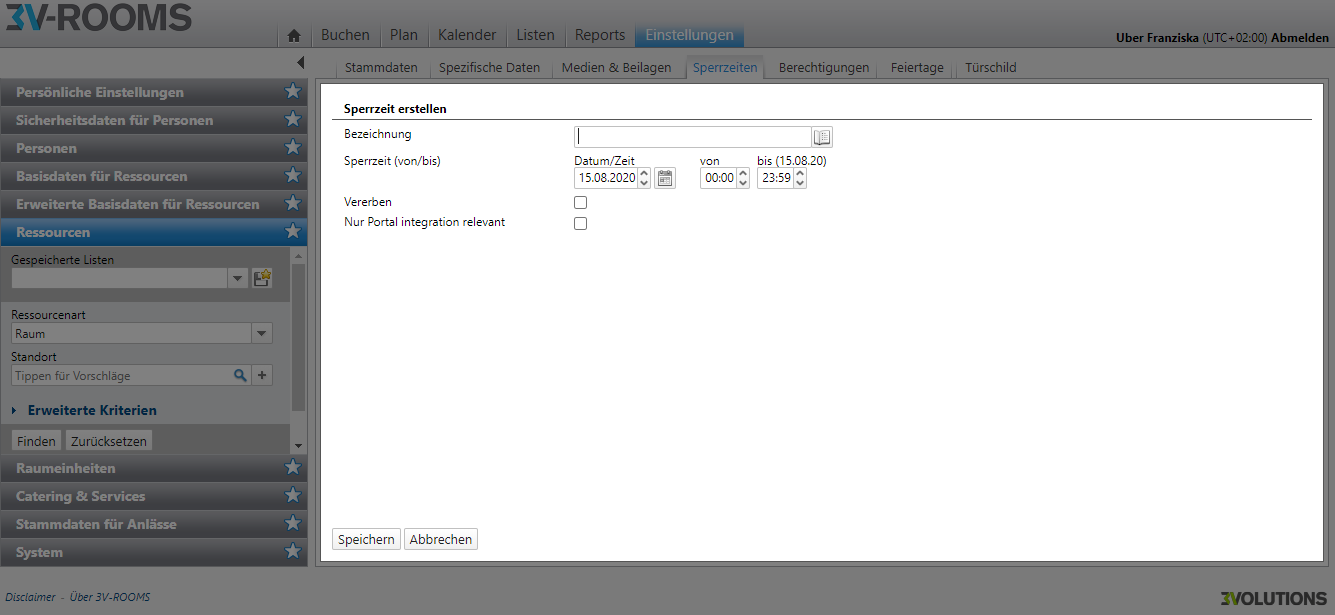
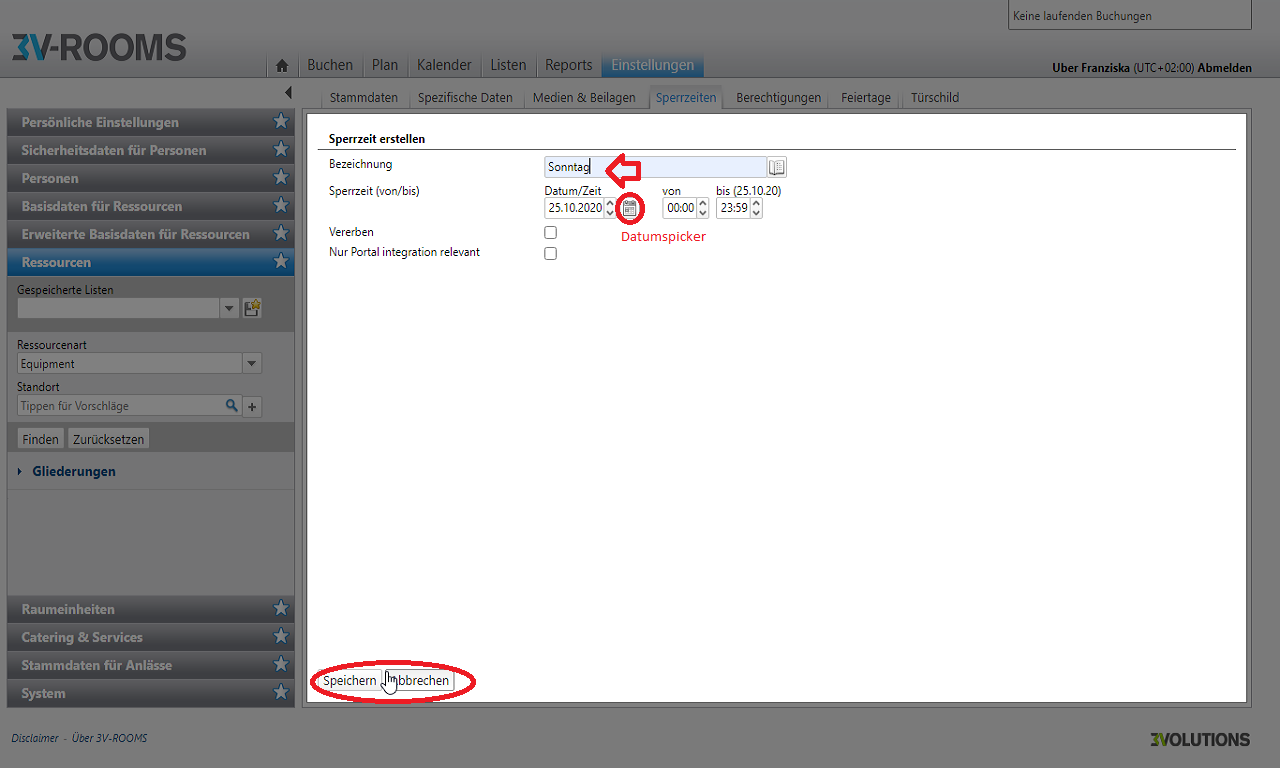
Ressourcen in Einstellungen ergänzt und mit UC abgeglichen. Screenshots geändert . Virtuelle Räume hinzugefügt

diff --git a/content/de/Einstellungen/Ressourcen/_index.md b/content/de/Einstellungen/Ressourcen/_index.md
@@ -8,8 +8,72 @@ description: >
 
 
 ---
+## Ansicht Ressourcen
+Im linken Sidepanel können Sie nach bestimmten Ressourcen suchen und die Filterkriterien hierfür einstellen. 
+
+Im rechten Bereich sehen Sie die Ressourcenliste. Je nachdem, welche Ressourcenart Sie im linken Filterkriterium angegeben haben, wird Ihnen diese Liste angezeigt. 
+
+{{< imgproc Ressourcen_bearbeiten_erstellen Resize "1280x" >}}
+Abbildung r: Ansicht und Überblick über Ressourcen
+{{< /imgproc >}}
+
+Beispiel: Wählen Sie im linken Sidepanel unter Ressourcenart "Equipment" aus und drücken Sie auf finden, werden Ihnen alle Equipmenttypen in der Liste angezeigt. 
+
+{{< imgproc Ressourcen_Equipment_finden_in_Liste Resize "1280x" >}}
+Abbildung ra: Equipment in der Ressourcenliste anzeigen
+{{< /imgproc >}}
+
+### Ressourcen suchen
+Im linken Menü finden Sie unter der Kategorie "Ressourcen" eine Suchfunktion mit deren Hilfe Sie nach einer Ressource suchen können (Abbildung r). Sie können hierbei nach folgenden Kriterien suchen: 
+
+* Ressourcenart (Drop-down)
+* Gespeicherte Listen einsehen
+* Standort (Plus Zeichen): Auswählen aus allen eingespeicherten Standorten
+
+**Sie können eine Liste als Favorit speichern**: 
+Wird eine Liste als Favorit definiert wird diese standardmässig angezeigt.
+Ansonsten ist die Liste leer.
+Nach Wechsel eines Eintrages, werden Sidepanel und Inhaltsbereich automatisch neu geladen
+(Achtung: Bevor Liste gespeichert wird, muss "Finden" Button geklickt werden, um alle Kriterien zu speichdern)
+
+#### Suchen durch Erweiterte Kriterien
+Die Suchfunktionen erweitern Sie über den Drop-Down des Menü-Punktes "Erweiterte Kriterien". 
+Hierbei können Sie nach den folgenden Kriterien suchen:
+
+* Ressourcen ID/Bezeichnung
+* Ressourcenpicker (Plus Zeichen) : Der Ressourcenpicker zeigt alle Ressourcen - unabhängig davon was im Feld "Ressourcenart" selektiert worden ist 
+* Status: Wählen aus Alle, Inaktiv oder Aktiv
+* Verantwortliche Person 
+
+#### Suchen über die Gliederung 
+Die Suchfunktionen erweitern Sie über den Drop-Down des Menü-Punktes "Gliederung". Es werden alle Gliederungstypen der gewählten "Ressourcenart" angezeigt. Bei Ressourcenart "alle" werden alle Gliederungstypen aller Ressourcenarten aufgelistet. Es werden nur die Gliederungen (eines Gliederungstyps) angezeigt für welche Sie auch Rechte haben.
+Hierbei können Sie nach den folgenden Kriterien suchen:
+
+* Raum: Raumtyp (Plus Zeichen: hinzufügen)
+* Equipmemt: Equipmenttyp (Plus Zeichen: hinzufügen)
+
+### Löschen von Ressourcen 
+Sie können eine Mehrfachselektion über die linke Checkbox vornehmen und eine Ressource über den untenstehenden Button "entfernen" löschen.
+Es erscheint ein Warnhinweis, Ausgabe im Actionpanel oder Fehlermeldung im Actionpanel.
+
+Zusätzliche Löschregel:
+* Nur möglich, wenn eine Ressource keine Reservationen hat
+* Löschweitergabe an alle Abhänigkeiten zur Ressource
+* Nur möglich, wenn Benutzer über die entsprechende standortabhängige Rechte verfügt.
+
+### Daten einsehen
+Klicken Sie auf den Namen einer Ressource in der Liste gelangen Sie zur Übersicht der gespeicherten Daten und der Historie der Ressource. 
+
+{{< imgproc Ressource_Daten_einsehen Resize "1280x" >}}
+Abbildung rq: Daten einer Ressource einsehen
+{{< /imgproc >}}
+
+Aus diesem Modus können Sie ebenfalls die ausgewählte Ressource bearbeiten. Dazu klicken Sie auf den untenstehenden Button "Bearbeiten". Über den Button "Abbrechen" gelangen Sie wieder zur Übersicht im View Modus. 
+
 ## Ressource neu erstellen 
-Eine neue Ressource erstellen Sie über den untenstehenden Button "Erstellen" (Abbildung r). In dem Feld, welches sich öffnet legen Sie folgende Daten fest (Abbildung ra) 
+Eine neue Ressource erstellen Sie über den untenstehenden Button "Erstellen" (Abbildung r). Über den Drop Down Pfeil können Sie untenstehend auswählen, welchen Ressourcentyp Sie neu erstellen wollen. Sie können wählen zwischen Raum, Arbeitsplatz, Parkplatz, Equipment, Fahrzeug oder Bneutzerdefinierten Ressourcen. Je nachdem, welchen Ressourcentyp Sie neu erstellen, stehen Ihnen verschiedene Daten zur Verfügung.
+
+In dem Feld, welches sich öffnet legen Sie folgende Daten fest (Abbildung rb) 
 * die Stammdaten
 * Spezifische Daten
 * Medien und Beilagen
@@ -22,25 +86,28 @@ Eine neue Ressource erstellen Sie über den untenstehenden Button "Erstellen" (A
 
 Die neu eingetragenen Daten speichern Sie über den untenstehenden Button "Speichern" (Abbildung ra).
 
-{{< imgproc Ressourcen_bearbeiten_erstellen Resize "1280x" >}}
-Abbildung r: Bearbeiten oder erstellen einer neuen Ressource
+{{< imgproc Ressource_neu_erstellen Resize "1280x" >}}
+Abbildung rb: Benötigte Daten für die Erstellung einer neuen Ressource
 {{< /imgproc >}}
 
-{{< imgproc Ressource_neu_erstellen Resize "1280x" >}}
-Abbildung ra: Benötigte Daten für die Erstellung einer neuen Ressource
+Haben Sie eine Ressource neu erstellt und gespeichert, aktualisiert sich die Liste automatisch. Ihre eingetragene Ressource, sehen Sie nun im View Modus. (Abbildung rz)
+
+Beispiel: Erstellung eines neuen Equipmenttyps (Whiteboard)
+
+{{< imgproc Ressourcen_Beispiel_neu_Equipment Resize "1280x" >}}
+Abbildung rz: Beispiel einer neu erstellten Ressource, Equipment
+{{< /imgproc >}}
+
+Nach dem Speichern, erscheint die neue Ressource in der aktualisierten Liste. 
+
+{{< imgproc Ressourcen_neues_Equipment_in_Liste Resize "1280x" >}}
+Abbildung ry: Neu erstellte Ressource in der aktualisierten Liste
 {{< /imgproc >}}
 
 ## Ressource bearbeiten
-Eine bestehende Ressource bearbeiten Sie, indem Sie auf das Stift Icon "Bearbeiten" neben der jeweiligen Ressource in der Ressourcenliste klicken (Abbildung r). In dem Feld, welches sich öffnet ändern Sie folgende Daten fest (Abbildung ra) 
-* die Stammdaten
-* Spezifische Daten
-* Medien und Beilagen
-* Berechtigungen
-* Sperrzeiten
-* Feiertage
-* Türschild 
+Eine bestehende Ressource bearbeiten Sie, indem Sie auf das Stift Icon "Bearbeiten" neben der jeweiligen Ressource in der Ressourcenliste klicken (Abbildung r). In dem Feld, welches sich öffnet ändern Sie die gleichen Daten fest, wie bei einer neu erstellten Ressource (Abbildung rb). 
 
-Die geänderten Daten speichern Sie über den untenstehenden Button "Speichern" (Abbildung r).
+Die geänderten Daten speichern Sie über den untenstehenden Button "Speichern" (Abbildung rb).
 
 ### Stammdaten der Ressource bearbeiten 
 Die folgenden Stammdaten können Sie ändern und bearbeiten: 
@@ -48,52 +115,55 @@ Die folgenden Stammdaten können Sie ändern und bearbeiten:
 | Feld         | Funktion         | 
 | ------------- |-------------  | 
 | Ressourcen ID       | Ressourcen ID eintragen | 
-| Bezeichnung       | Bezeichnung der Ressource eintragen |
+| Bezeichnung       | Bezeichnung der Ressource eintragen. Erfassung muss in allen aktivierten Sprachen erfolgen.|
 | Beschreibung      | Die Ressource beschreiben  |
-| Fehlermeldung  |  Fehlermeldung eintragen, die angezeigt werden soll   |  
+| Fehlermeldung  |  Fehlermeldung eintragen, die angezeigt werden soll. Diese übersteuert die globale Fehlermeldung bei Buchungsproblemen. Erfassung in mehreren Sprachen möglich. |  
 | External Identifier  |     |  
-| Standort  | Standort über das "Plus-Zeichen" hinzufügen Bsp: Bern     |  
-| Ressourcenart    |   |  
-| Status (aktiv*/inaktiv)* = markiert  |  ankreuzen wenn zutreffend |  
-| Checkin aktiviert  | ankreuzen wenn zutreffend  | 
-| NoShow Delay  | Minuten auswählen | 
-| Tarifkategorie  |  | 
-| Info Url  |  | 
+| Standort  | Standort über das "Plus-Zeichen" hinzufügen Bsp: Bern. Es werden nur die Standorte zur Verfügung gestellt an welchen der Benutzer auch Schreibrechte hat Datenrecht Ressource bearbeiten. |  
+| Ressourcenart    | Nur Bezeichnungsfeld (nicht editierbar)  |  
+| Status (aktiv*/inaktiv)* = markiert  |  Ankreuzen wenn zutreffend. Standard = inaktiv. Nur aktive Ressourcen erscheinen grundsätzlich in den Buchungssuchen (zusätzlich relevant ist das entsprechende Standortbezogene Recht.Wird eine Ressource auf inaktiv gesetzt, werden alle zugehörigen Reservationen mit Exchange Synchronisation von der Synchronisation abgekoppelt. |  
+| Checkin aktiviert  | Ankreuzen wenn zutreffend. Aktiviert die Checkin Funktionalität (auf Türschild) ob ein Checkin getätigt werden muss definiert die [Benutzergruppen](/einstellungen/sicherheitsdaten/benutzergruppen/).| 
+| NoShow Delay  | Minuten auswählen. Definiert nach wie vielen Minuten ohne Checkin der Raum wieder freigegeben wird. Standardwert = 15 Minuten | 
+| Tarifkategorie  | Es muss keine [Tarifkategorie](/einstellungen/erweitertebasisdatenfuerressourcen/tarife/) gewählt werden. Falls keine Tarikfategorie gewählt wurde, erfolgt keine Preisberechnung auf der Ressource. Standard = leer (keine Selektion)  | 
+| Info Url  | Übersetzungseintrag „Alias für InfoURL“ muss erstellt werden. Ist der Übersetzungseintrag nicht übersetzt (leer), werden die effektiven URL’s der Ressourcen angezeigt. Ist die Übersetzung nicht leer wird der Text der Übersetzung in der entsprechenden Benutzersprache übernommen. Die Implementation erfolgt im Sidepanel (Reservationsdetail) und im View Mode der Ressource.  | 
 | Sync. Modus  | über das Drop-Down auswählen | 
-| Verantwortliche Person  | verantwortliche Person aus dem System eintragen oder suchen | 
-| Minimale Buchungsdauer |  | 
-| Maximale Buchungsdauer |  | 
-| Vorlaufdauer in Minuten |  | 
-| Nachlaufdauer in Minuten |  | 
-| Priorisierung |  | 
-| Automatische Verlängerung|   | 
-| No Slot Buchungen zulässig | ankreuzen wenn zutreffend | 
-| Schnellbuchungen deaktivieren | ankreuzen wenn zutreffend | 
-| TMS System ID |  |
-| Beim Speichern Notifikation an Betroffene senden | ankreizen wenn zutreffend |
+| Verantwortliche Person  | Intelibox mit allen aktiven verfügbaren Personen. Verantwortliche Person aus dem System eintragen oder suchen. | 
+| Minimale Buchungsdauer | Standardwert 0, 0 = keine Minimaldauer festgelegt. Eingabe in Minuten. Falls die Minimalreservationsdauer unterschritten wird, erfolgt im Reservationsprozess die Ausgabe einer Fehlermeldung. | 
+| Maximale Buchungsdauer | Standardwert 0, 0 = keine Minimaldauer festgelegt, Eingabe in Minuten. Falls die Minimalreservationsdauer unterschritten wird, erfolgt im Reservationsprozess die Ausgabe einer Fehlermeldung. | 
+| Vorlaufdauer in Minuten | Standardwert: 0, 0 = keine Vorlaufzeit wird berechnet. Eingabe in Minuten. Bei der Berechnung im Reservationsprozess wird der grösste Wert aller Vorlaufzeiten (Ressourcen, Services, Bestuhlungen)verwendet (kein Kummulatives verhalten)  | 
+| Nachlaufdauer in Minuten | Standardwert: 0, 0 = keine Vorlaufzeit wird berechnet. Eingabe in Minuten. Bei der Berechnung im Reservationsprozess wird der grösste Wert aller Vorlaufzeiten (Ressourcen, Services, Bestuhlungen)verwendet (kein Kummulatives verhalten). | 
+| Priorisierung | Angabe eines Sortiermerkmals. Wird in Listen und unter Buchen als zusätzliche Spalte angezeigt. Im Kalender wird automatisch nach dieser Spalte sortiert (aufsteigend). | 
+| Automatische Verlängerung| Aktivierung der automatischen Verlängerung erfolgt durch die Eingabe eines Wert grösser 0  ( >0 ). Ist der Wert 0, dann ist die automatische Verlängerung ausgeschalten. Die Prüfung erfolgt auf Ganzzahlen: Feldvalidierung (siehe 000.001 Globale Funktionen). Weitere Regeln: Das Ausführungsdatum ist Reservationsende - 5 Minuten. Eine automatische Verlängerung löst keine E-Mail Notifikationen aus. Synchronierte Buchungen werden im Outlook nachgetragen OHNE MeetingUpdate für die Teilnehmer. Eine Buchung mit automatischer Verlängerung endet bei Checkout, Konflikt mit der nächsten Reservation oder am Ende des Kalenderteages. | 
+| No Slot Buchungen zulässig | Bei Selektion kann Ressource nur als Slot gebucht werden (vordefinierter Zeitraum). Ankreuzen wenn zutreffend. | 
+| Schnellbuchungen deaktivieren | Somit kann diese Ressource auch über eine Schnellbuchung mit entsprechendem Recht gebucht werden. ankreuzen wenn zutreffend. | 
+| TMS System ID | Feld nur verfügbar bei der Ressourcenart "Equipment" nur Ressourcen mit einer Angabe in diesem Feld werden mit dem VC System synchronisiert und im VC Prozess gelistet. |
+| Beim Speichern Notifikation an Betroffene senden | Beim Abschluss der Buchung wird eine Email Notifikation an die ausgewählten Personen versendet. ankreizen wenn zutreffend. |
 
 Die geänderten Daten speichern Sie über den untenstehenden Button "Speichern" (Abbildung rb).
 
 {{< imgproc Ressourcen_Stammdaten_bearbeiten Resize "1280x" >}}
-Abbildung rb: Stammdaten der Ressourcen bearbeiten
+Abbildung rc: Stammdaten der Ressourcen bearbeiten
 {{< /imgproc >}}
 
 ### Spezifische Daten der Ressource bearbeiten
-Legen Sie für die ausgewähle Ressource spezifische Daten fest, indem Sie im Reitermenü auf "Spezifische Daten" gehen (Abbildung rc). Folgende Daten können Sie für die ausgewählte Ressource bearbeiten: 
+Legen Sie für die ausgewähle Ressource spezifische Daten fest, indem Sie im Reitermenü auf "Spezifische Daten" gehen (Abbildung rd). Folgende Daten können Sie für die ausgewählte Ressource bearbeiten: 
 
 | Feld         | Funktion         | 
 | ------------- |-------------  | 
-| Farbe       | Über das Pinsel-Sympol wählen Sie die gewünschte Farbe für die Ressource aus | 
-| Workflow       | Über Drop-Down wählen Sie den definierten Workflow aus |
+| Farbe       | Über das Pinsel-Sympol wählen Sie die gewünschte Farbe für die Ressource aus. Diese erscheint im Kalender. | 
+| Workflow       | Über Drop-Down wählen Sie den definierten [Workflow](/einstellungen/basisdatenfuerressourcen/workflows/) aus. |
 | Plan Label     | Gewünschtes Plan Label eintragen  |
-| Reminder für provisorische Buchungen (in Min.) |  Über die Pfeiltasten (oben/unten) die gewpnschte Minutenanzahl auswählen  |  
+| Reminder für provisorische Buchungen (in Min.) | Verschickt einen zusätzlichen Reminder auf allen provisorischen Buchungen auf dieser Ressource in Minuten vorher (sofern Wert > 0 ist) Standardwert = leer. Die Notifikation wird an dieselbe Benutzerguppe verschickt, welche bereits beim Statuswechsel (in Status "prov. Buchung") informiert wurde. Diese muss also vorgängig als [Workflow](/einstellungen/basisdatenfuerressourcen/workflows/) konfiguriert werden Über die Pfeiltasten (oben/unten) die gewünschte Minutenanzahl auswählen. |  
 | Equipment Equipmenttyp  |  Über das "Plus-Zeichen" den gespeicherten Equipmenttypp auswählen   |  
-| Telefonnummer  | Eintragen    |  
+| Telefonnummer  | Telefonnummer des Raumes. Wird auch im View Modus angezeigt. Anzeige im Reservationsdetail (Sidepanel und Summary Page) nur wenn Inhalt vorhanden ist, ansonsten ist Nummer UND Label nicht sichtbar.    |  
+| Alarmierung in Status  |Erscheint nur bei Ressourcenart "Raum".Dropdown zeigt alle erfassten Status (unabhängig vom Status der Ressouce). Es muss der Status erfasst werden, bei welchem das Alarmierungspopup angezeigt werden soll (siehe UC xxx ) in Kombination mit dem "Dauer nach Statuswechsel". |  
+| Dauer nach Statuswechsel | Erscheint nur bei Ressourcenart "Raum". Angabe in Minuten. 0 oder leer = deaktiviert. Löst Event "Alarmierungspopup" nach Ablauf der erfassten Minutenzahl aus, wenn der unter "Alarmierung in Status" definierte Status eintrifft.  |  
+| Alarmierung bei Folgebuchung | Erscheint nur bei Ressourcenart "Raum". Angabe in Minuten. Die Minuten beziehen sich auf den Reservationsstart ohne Vorlauf. 0 oder leer = deaktiviert. Löst Event "Alarmierungspopup" nach Ablauf der erfassten Minutenzahl aus, falls zum aktuellen Zeitpunkt eine Reservation besteht und sich auf der Ressource einen Reservation in Zukunft befindet. Beispiel Reservation startet um 11:00, Alarmierung beträgt 60. Eine Vorgängige Reservation dauert von 08:00 bis 10:30 - so erscheint das Popup zwischen 10:00 und 10:30.|  
 
 Die geänderten Daten speichern Sie über den untenstehenden Button "Speichern" (Abbildung rc).
 
 {{< imgproc Ressourcen_Spezifische_Daten Resize "1280x" >}}
-Abbildung rc: Spezifische Daten der Ressourcen bearbeiten
+Abbildung rd: Spezifische Daten der Ressourcen bearbeiten
 {{< /imgproc >}}
 
 ### Medien und Beilagen der Ressource bearbeiten
@@ -114,30 +184,50 @@ Abbildung re: Medien und Beilagen einer Ressource hinzufügen
 {{< /imgproc >}}
 
 ### Sperrzeiten der Ressource bearbeiten
-Fügen Sie entweder eine Sperrzeitserie oder eine einzelne Sperrzeit zur Ressource hinzu. Wählen Sie dazu die Sperrzeit (Von/Bis) aus und beschreiben Sie diese im Feld "Bezeichnung" (Abbildung rg).
-
+Fügen Sie entweder eine Sperrzeitserie oder eine einzelne Sperrzeit zur Ressource hinzu. 
+Dazu klicken Sie auf den untenstehenden Button "Hinzufügen". Es öffnet sich ein neues Feld, in welchem Sie die geforterten Daten eingeben. (Abbildung rf)
 
 {{< imgproc Ressourcen_Sperrzeiten Resize "1280x" >}}
 Abbildung rf: Sperrzeiten einer Ressource bearbeiten
 {{< /imgproc >}}
 
+Wählen Sie dazu die Sperrzeit (Von/Bis) aus und beschreiben Sie diese im Feld "Bezeichnung" (Abbildung rg). Mitteld Datumspicker können Sie das gewünschte Datum auswählen.
+
 {{< imgproc Ressourcen_Sperrzeiten_hinzufügen Resize "1280x" >}}
 Abbildung rg: Sperrzeiten einer Ressource hinzufügen
 {{< /imgproc >}}
 
+{{< imgproc Ressourcen_Sperrzeiten_hinzugefügt_Liste Resize "1280x" >}}
+Abbildung rab: Sperrzeiten einer Ressource hinzufügen
+{{< /imgproc >}}
+
+#### Sperrzeitserie
+Eine Sperrzeitserie fügen Sie über den untenstehenden Button "Sperrzeitserie hinzufügen". Sie können hierbei zwischen verschiedenen Wiederholungen wählen: 
+* täglich 
+* wöchentlich
+* monatlich 
+
+{{< imgproc Ressourcen_Sperrzeitserie_hinzufügen Resize "1280x" >}}
+Abbildung rac: Sperrzeitserie hinzufügen
+{{< /imgproc >}}
+
 ### Berechtigungen der Ressource bearbeiten
-Fügen Sie Berechtigungen hinzu oder entfernen Sie diese. Beim Betatigen des untenstehenden Button "Hinzufügen" wählen Sie eine der bereits gespeicherten Berechtigungen aus z.B. Admin (Abbildung rj). 
+Fügen Sie Berechtigungen hinzu oder entfernen Sie diese. Beim Betätigen des untenstehenden Button "Hinzufügen" wählen Sie eine der bereits gespeicherten Berechtigungen aus z.B. Admin (Abbildung rj). 
 
 {{< imgproc Ressourcen_Berechtigungen Resize "1280x" >}}
 Abbildung rh: Berechtigungen einer Ressource bearbeiten
 {{< /imgproc >}}
 
+Sie können eine oder mehrere Berechtigungen auswählen. Aktivieren Sie dafür die Checkbox. Speichern Sie Ihre Auswahl über den Button "Speichern". 
+
 {{< imgproc Ressourcen_Berechtigungen_hinzufügen Resize "1280x" >}}
 Abbildung rj: Berechtigungen einer Ressource hinzufügen
 {{< /imgproc >}}
 
+Mehr Information zum Thema Berechtigungen finden Sie hier: [Benutzergruppen](/einstellungen/sicherheitsdaten/benutzergruppen/)
+
 ### Feiertage der Ressource bearbeiten
-Sie können einen der bereits gespeicherten Feiertage (z.B. Weihnachten) der Ressource zuordnen. Dazu klicken Sie auf den untenstehenden Button "Hinzufügen" (Abbildung rk). In dem Feld, welches sich öffnet, wählen Sie einen Feiertag über das linke Kästchen aus (Abbildung rl). 
+Sie können einen der bereits gespeicherten Feiertage (z.B. Weihnachten) der Ressource zuordnen. Dazu klicken Sie auf den untenstehenden Button "Hinzufügen" (Abbildung rk). In dem Feld, welches sich öffnet, wählen Sie einen oder mehrere Feiertage über das linke Kästchen aus (Abbildung rl). 
 
 {{< imgproc Ressourcen_Feiertage Resize "1280x" >}}
 Abbildung rk: Feiertage für eine Ressource bearbeiten
@@ -147,6 +237,14 @@ Abbildung rk: Feiertage für eine Ressource bearbeiten
 Abbildung rl: Einer Ressource einen Feiertag zuweisen
 {{< /imgproc >}}
 
+Speichern Sie Ihre Auswahl über den untenstehenden Button "Speichern". Die Liste aktualisiert sich automatisch und die ausgewählten Feiertage erscheinen in der Liste. (Abbildung rla)
+
+{{< imgproc Ressourcen_Feiertage_in_Liste Resize "1280x" >}}
+Abbildung rla: HInzugefügte Feiertage in der aktualisierten Liste
+{{< /imgproc >}}
+
+Mehr über Feiertage erfahren Sie hier: [Feiertage](/einstellungen/erweitertebasisdatenfuerressourcen/feiertage/) 
+
 ### Türschild der Ressource bearbeiten
 Für das Türschild wählen Sie den Konfigurationsbenutzer aus und aktivieren das Türschild. 
 
@@ -155,37 +253,51 @@ Abbildung rm: Türschild einer Ressource bearbeiten
 {{< /imgproc >}}
 
 ### Fixes Equipment der Ressource bearbeiten
-[//]: # (Beim Klicken auf bearbeiten erscheint dieser Text: Der Kontext dieses Bearbeitungsvorgangs steht nicht mehr zur Verfügung. Möglicherweise wurde der Bearbeitungsvorgang bereits beendet, abgebrochen oder zu lange nicht mehr verwendet. Beginnen Sie noch einmal einen neuen Bearbeitungsvorgang und verwenden Sie nicht den Zurück-Button des Browsers.
-)
+Wenn Sie die Ressourcenart **Raum** bearbeiten, können Sie diesem fixes Equipment zuordnen. Sie sehen die Equipmentliste in Abbildung rs. 
+
+{{< imgproc Ressource_fixes_Equipment Resize "1280x" >}}
+Abbildung rs: Fixes Equipment auswählen
+{{< /imgproc >}}
+
+Sollten Sie eine neue Ressource erstellen oder weiteres Equipment hinzufügen, klicken Sie auf den untenstehenden Button "hinzufügen". Es öffnet sich ein Feld, in welchem Sie ein oder mehrere Equipments auswählen können über die Aktivierung der Checkbox. 
+
+{{< imgproc Ressourcen_fixes_Equipment_hinzufügen Resize "1280x" >}}
+Abbildung rt: Fixes Equipment zuordnen und hinzufügen 
+{{< /imgproc >}}
+
+Speichern Sie Ihre Auswahl über den Button "Speichern". Die Liste aktualisiert sich automatisch und Sie sehen das hinzugefügte Equipment (Abbildung ru).
+
+{{< imgproc Ressourcen_fixes_Equipment_in_Liste Resize "1280x" >}}
+Abbildung ru: Ansicht fixes Equipment in aktualisierter Liste
+{{< /imgproc >}}
+
+#### Equipment Schnellerfassung 
+Sie haben die Möglichkeit über die Equipment Schnellerfassung. Dazu klicken Sie auf den gleichnamigen untenstehenden Button. Es öffnet sich ein Feld und Sie können dort die zur Verfügung stehenden Equipmenttypen mittels der Plus-Auswahl hinzufügen. Speichern Sie Ihre Eingabe ebenfalls über den Button "Speichern". 
+
+{{< imgproc Ressourcen_Schnellzugriff_Equipment Resize "1280x" >}}
+Abbildung rv: Schnellerfassung von Equipment  
+{{< /imgproc >}}
+
 
 ### Bestuhlung der Ressource bearbeiten
-[//]: # (Beim Klicken auf bearbeiten erscheint dieser Text: Der Kontext dieses Bearbeitungsvorgangs steht nicht mehr zur Verfügung. Möglicherweise wurde der Bearbeitungsvorgang bereits beendet, abgebrochen oder zu lange nicht mehr verwendet. Beginnen Sie noch einmal einen neuen Bearbeitungsvorgang und verwenden Sie nicht den Zurück-Button des Browsers.
-)
+Wenn Sie die Ressourcenart **Raum** bearbeiten, können Sie diesem eine oder mehrere Bestuhlungsmöglichkeiten zuordnen. Bereits bestehende und gespeicherte Bestuhlungen sehen Sie in der Liste. 
+
+{{< imgproc Ressourcen_Bestuhlung Resize "1280x" >}}
+Abbildung rbb: Bestuhlung zu einer Ressource hinzufügen
+{{< /imgproc >}}
+
+Wollen Sie der Ressource neue Bestuhlungen hinzufügen, klicken Sie auf den untenstehenden Button "hinzufügen". Es öffnet sich ein Feld, in welchem Sie durch Aktivieren der Checkbox den Bestuhlungstyp auswählen können. (Abbildung rba)
+
+{{< imgproc Ressourcen_Bestuhlung_hinzufügen Resize "1280x" >}}
+Abbildung rba: Bestuhlung zu einer Ressource hinzufügen
+{{< /imgproc >}}
+
+Speichern Sie Ihre Eingabe mit dem Button "Speichern". 
+
+Mehr Information über die Bestuhlung finden Sie hier:[Bestuhlung](/einstellungen/basisdatenfuerressourcen/bestuhlung/)
 
 ### Virtuelle Räume der Ressource bearbeiten
-[//]: # (Beim Klicken auf bearbeiten erscheint dieser Text: Der Kontext dieses Bearbeitungsvorgangs steht nicht mehr zur Verfügung. Möglicherweise wurde der Bearbeitungsvorgang bereits beendet, abgebrochen oder zu lange nicht mehr verwendet. Beginnen Sie noch einmal einen neuen Bearbeitungsvorgang und verwenden Sie nicht den Zurück-Button des Browsers.
-)
+Im Kapitel virtuelle Räume werden diese genauer Beschrieben.
 
 
-### Ressourcen suchen
-Im linken Menü finden Sie unter der Kategorie "Ressourcen" eine Suchfunktion mit deren Hilfe Sie nach einer Ressource suchen können (Abbildung r). Sie können hierbei nach folgenden Kriterien suchen: 
 
-* Ressourcenart (Drop-down)
-* Gespeicherte Listen einsehen
-* Standort (Plus Zeichen: hinzufügen)
-
-### Suchen durch Erweiterte Kriterien
-Die Suchfunktionen erweitern Sie über den Drop-Down des Menü-Punktes "Erweiterte Kriterien". 
-Hierbei können Sie nach den folgenden Kriterien suchen:
-
-* Ressourcen ID/Bezeichnung
-* Ressourcenpicker
-* Status 
-* Verantwortliche Person 
-
-### Suchen über die Gliederung 
-Die Suchfunktionen erweitern Sie über den Drop-Down des Menü-Punktes "Gliederung". 
-Hierbei können Sie nach den folgenden Kriterien suchen:
-
-* Raum: Raumtyp (Plus Zeichen: hinzufügen)
-* Equipmemt: Equipmenttyp (Plus Zeichen: hinzufügen)

diff --git a/content/de/Einstellungen/Ressourcen/Virtuelle Räume/_index.md b/content/de/Einstellungen/Ressourcen/Virtuelle Räume/_index.md
@@ -9,3 +9,11 @@ description: >
 ---
 
 ## Virtuelle Räume 
+Nur die Ressource „Raum“ können Sie als teilbarer Raum konfiguriert werden. 
+
+Klicken Sie dafür auf den Tab „virtuelle Räume“. Es erscheint eine Liste mit Teilräume – ein oder mehrere Teilräume können gelöscht werden, indem Sie die Checkbox aktivieren und den Button "Entfernen" wählen.
+Verfügen Sie über Administrator:innen Rechte können Sie durch den Button "Hinzufügen" einen oder mehrere Teilräume hinzufügen.
+
+{{< imgproc Virtuelle_Räume Resize "1280x" >}}
+Abbildung v: Virtuelle Räume
+{{< /imgproc >}}
